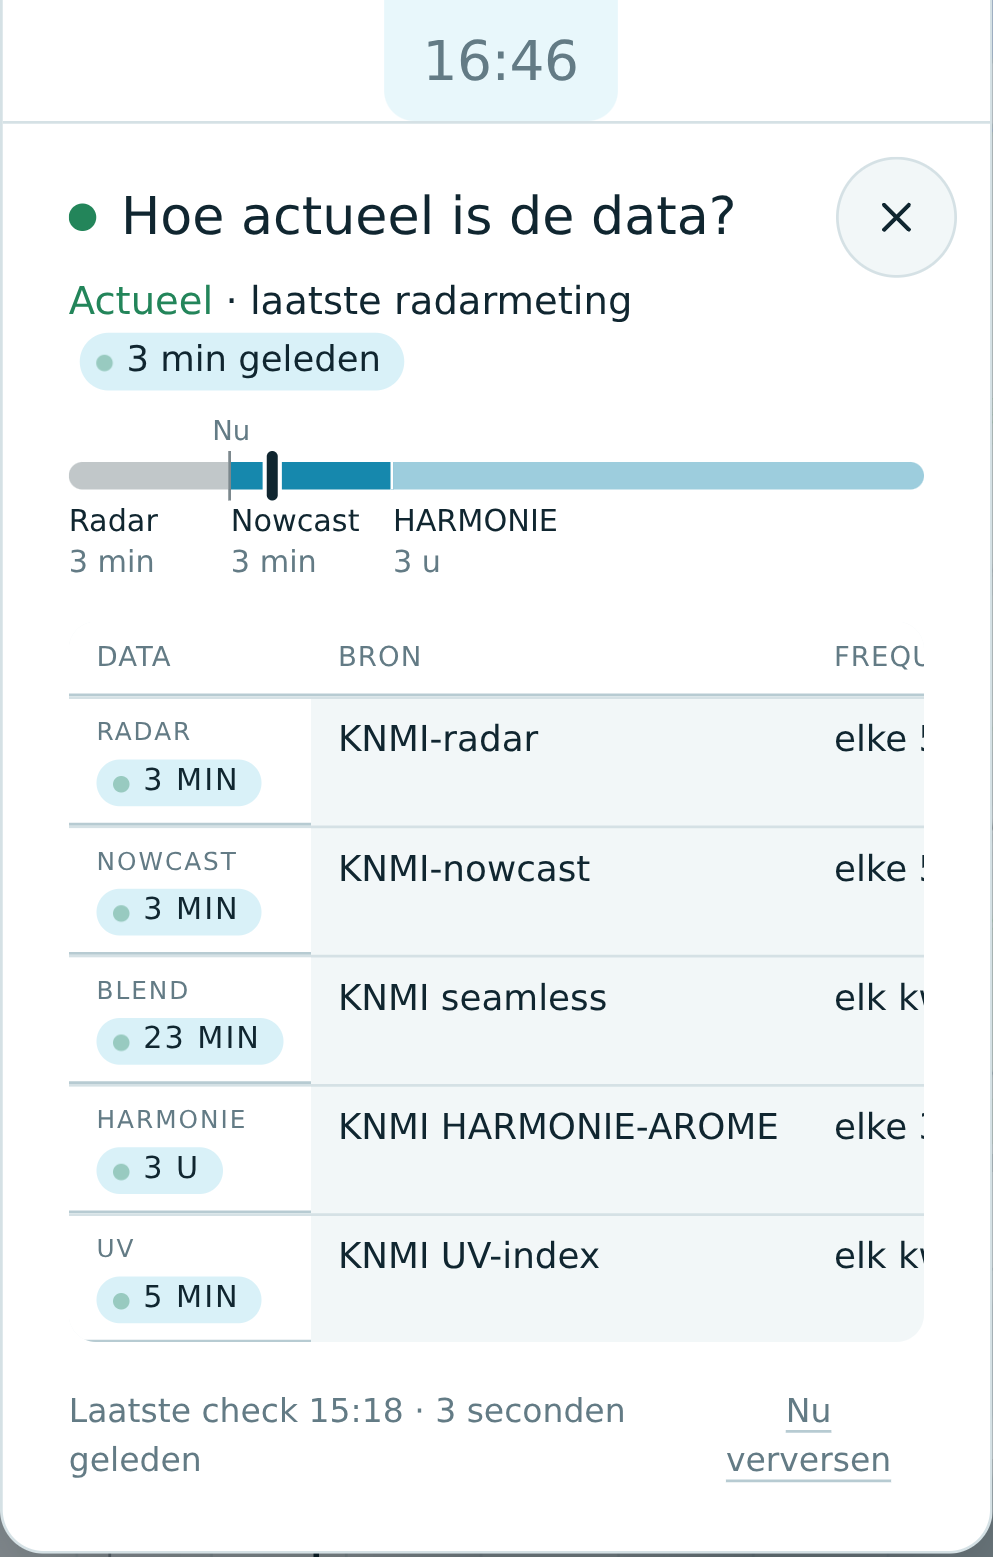
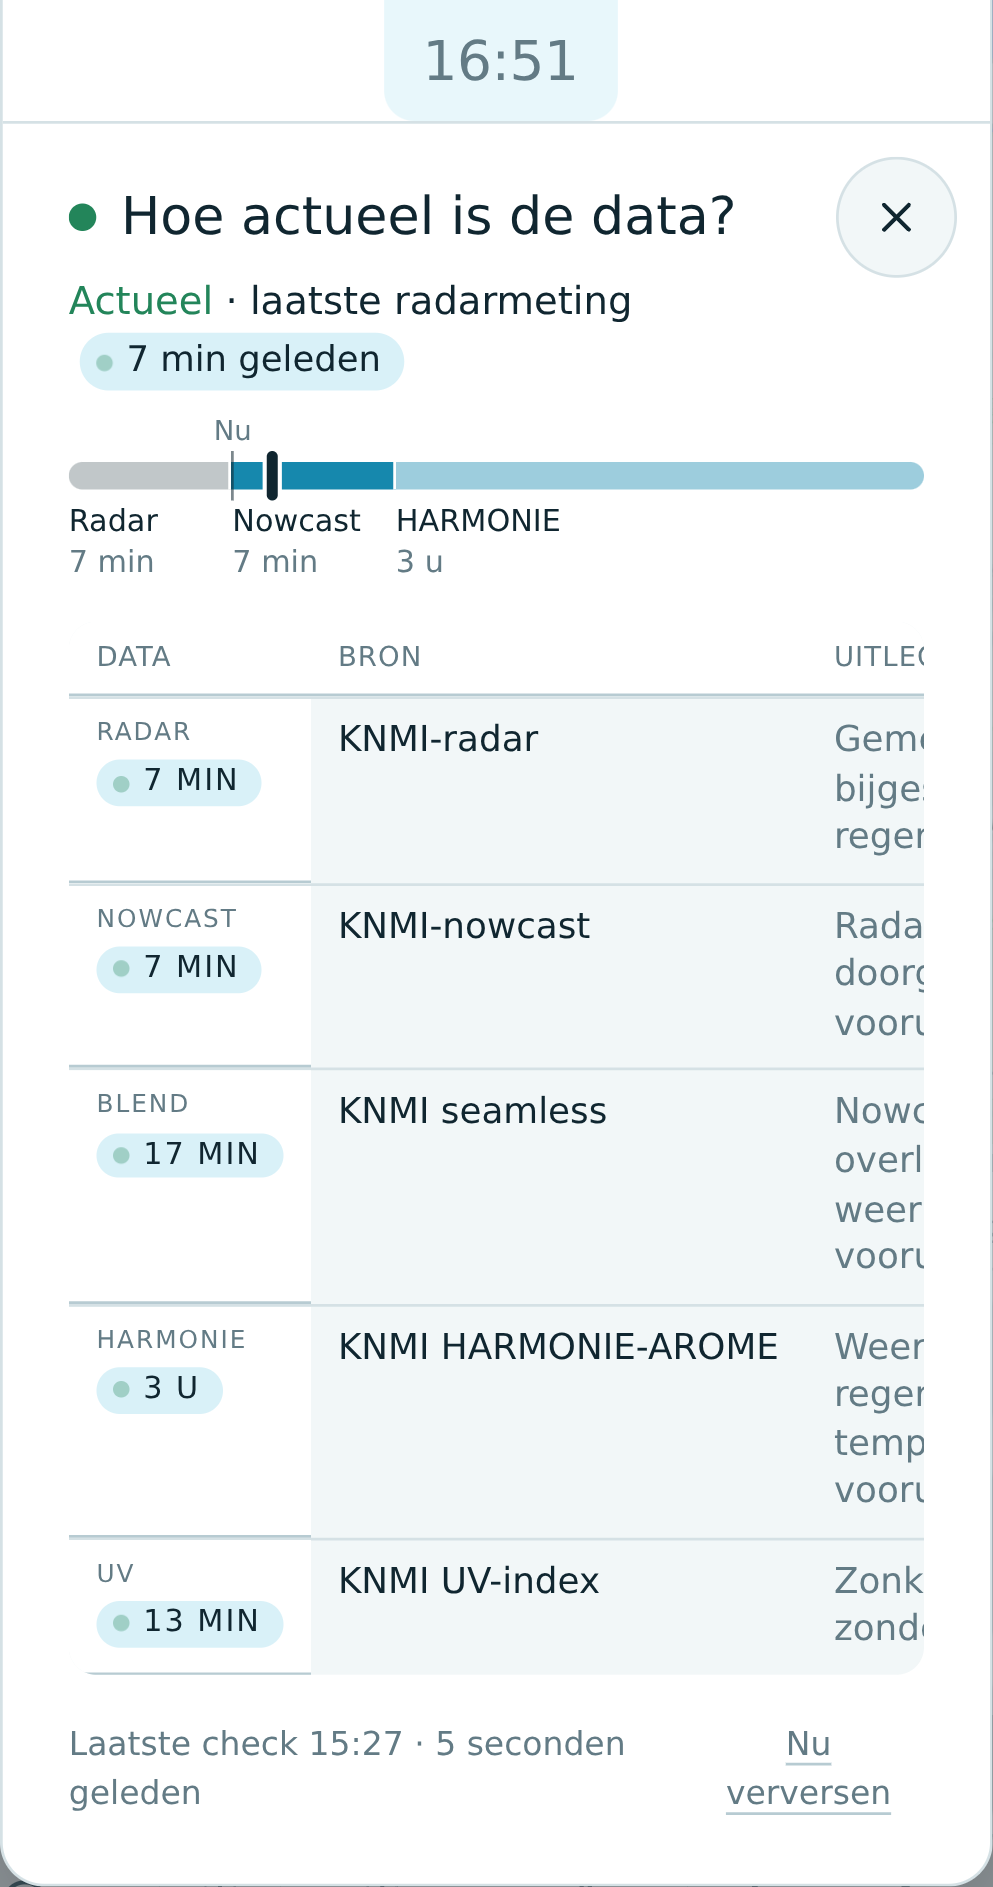
U56: LOG en stills op de eindstand (baken v2, kolom Uitleg terug, main gemerged)

diff --git a/.dev/tracks/u56-klokpil-tijdlijn/LOG.md b/.dev/tracks/u56-klokpil-tijdlijn/LOG.md
@@ -24,3 +24,5 @@
 - 2026-10-07T13:23Z — Meting jog-schaal: vast = 120 s/px; scrubberschaal = 8 u / plotbreedte = 61 s/px op desktop (470 px), 73 s/px op Pixel 5 (393 px). Een veeg over de halve schermbreedte van een telefoon (~200 px) is dus 6 u 40 (vast) tegen ~4 u (scrubber). Niet op een echte telefoon gevoeld; de keuze is aan de PO via `?dev`.
 - 2026-10-07T13:23Z — Preview: `MOTREGEN_DATA_ORIGIN=https://motregen.nl/data pnpm preview --host 0.0.0.0 --port 4345 --strictPort` → http://ageq-dev2:4345/ (eindbuild; `curl` op `/` en `/data/manifest.json` → 200). Na een e2e-run eerst `pnpm build`: die herbouwt `dist` met de e2e-basemap.
 - 2026-10-07T13:23Z — **Open voor PO/orkestrator**: (1) jog-richting rechts = later, of meelopen met de scrubber; (2) jog-schaal vast of scrubber; (3) tabel zonder kolom Uitleg — akkoord, of een andere kolom laten vervallen; (4) versiebump van het baken naar v3 en de niet-gedraaide VM-test; (5) `dev-panel.spec` is rood los van deze track; (6) `TZ` op ageq-dev2 voor e2e; (7) de strook is tik-only, niet sleepbaar, en heeft geen eigen toetsenbordbediening (de pil is de schuif).
+- 2026-10-07T13:30Z — Orkestrator-antwoord verwerkt. (4) Baken blijft **v2** met `clockScrub` erin (v2 is nog niet uitgebracht): `USAGE_SCHEMA_VERSION`, `contract.jq`, fixture, `nix/tests/motregen.nix`, `docs/analytics.md`, `usage.test.ts`, `usage.spec.ts` terug naar 2; fixture en VM-test zijn weer gelijk aan main. De alles-gebruikt-grens in `usage.test.ts` blijft 280 B (body 277 B). (1) Rechts = later blijft de default. (2) Jog-schaal: PO kiest via `?dev`. (3) Met "tabel zonder kolom Uitleg" bedoelde ik de brontabel in het versheidspaneel (`Freshness.tsx`: Data / Bron / Uitleg / Frequentie / Volgende data), niet de veldentabel in `docs/analytics.md` (daar is alleen de rij `clockScrub` bijgekomen). Kolom Uitleg staat terug; de paneeltabel is nu ongewijzigd t.o.v. main, het "korter" uit de spec is daarmee niet ingevuld. (5) `dev-panel.spec.ts` niet gerepareerd; de falende assertie is regel 9: `await expect(page.getByTestId('perf-hud')).toBeHidden()` na `page.goto('/?perf=1&histogram=wait&zon=markering&uvbalk=stip')` — ontvangen: zichtbaar. Dat het op main rood is komt van de orkestrator; ik heb het daar niet zelf gedraaid.
+- 2026-10-07T13:36Z — `git merge origin/main` (`72aa957`) → exit 0, geen conflicten, merge `467821e`. **Slotgates op de eindstand, synchroon, vanuit `web/`**: `pnpm typecheck` → 0 · `pnpm test` → 0 (66 bestanden, 423 tests) · `pnpm build` → 0 · `git diff --check` → 0 · `TZ=UTC MOTREGEN_E2E_PORT=4346 MOTREGEN_E2E_DATA_PORT=8346 pnpm e2e e2e/freshness.spec.ts e2e/usage.spec.ts --project desktop` → 0 (7 tests) · `jq`-dagaggregaat op de fixture → 0, (5, 4, 3). Stills opnieuw gemaakt (`shots.mjs` → exit 0) en het paneel met de kolom Uitleg zelf bekeken. Preview http://ageq-dev2:4345/ serveert de eindbuild (`curl` → 200). Niet gedraaid: NixOS-VM-test, mobiele e2e-projecten, echte telefoon.
